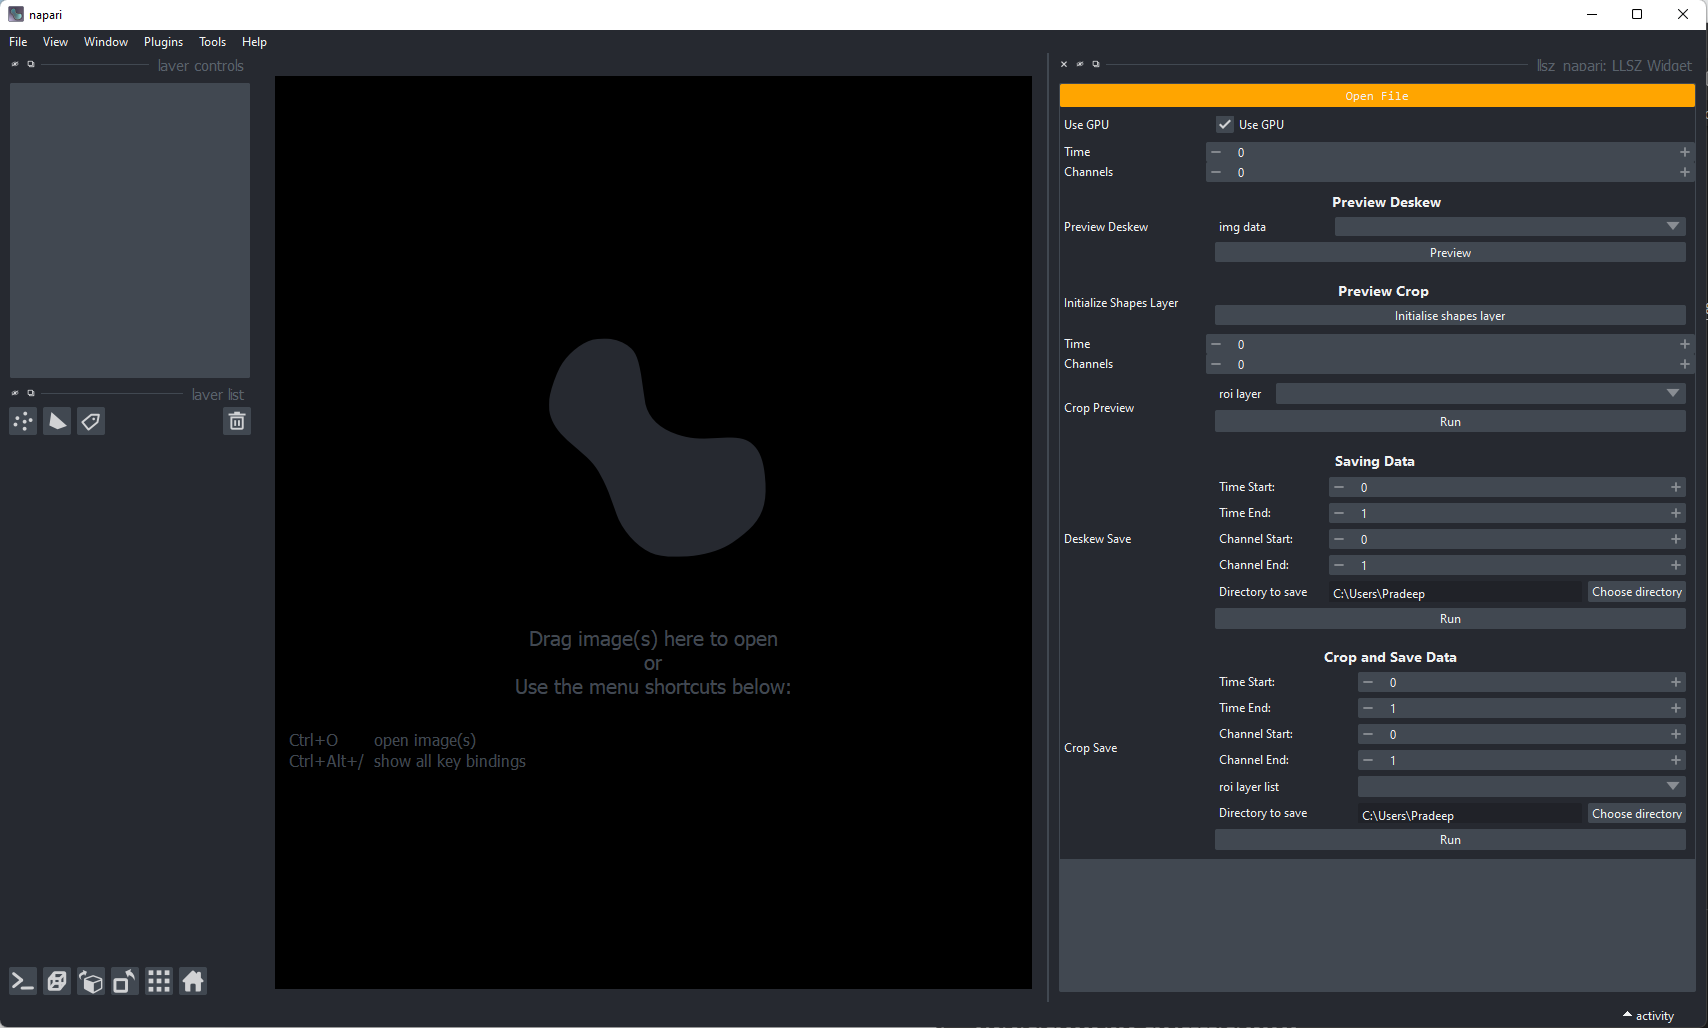
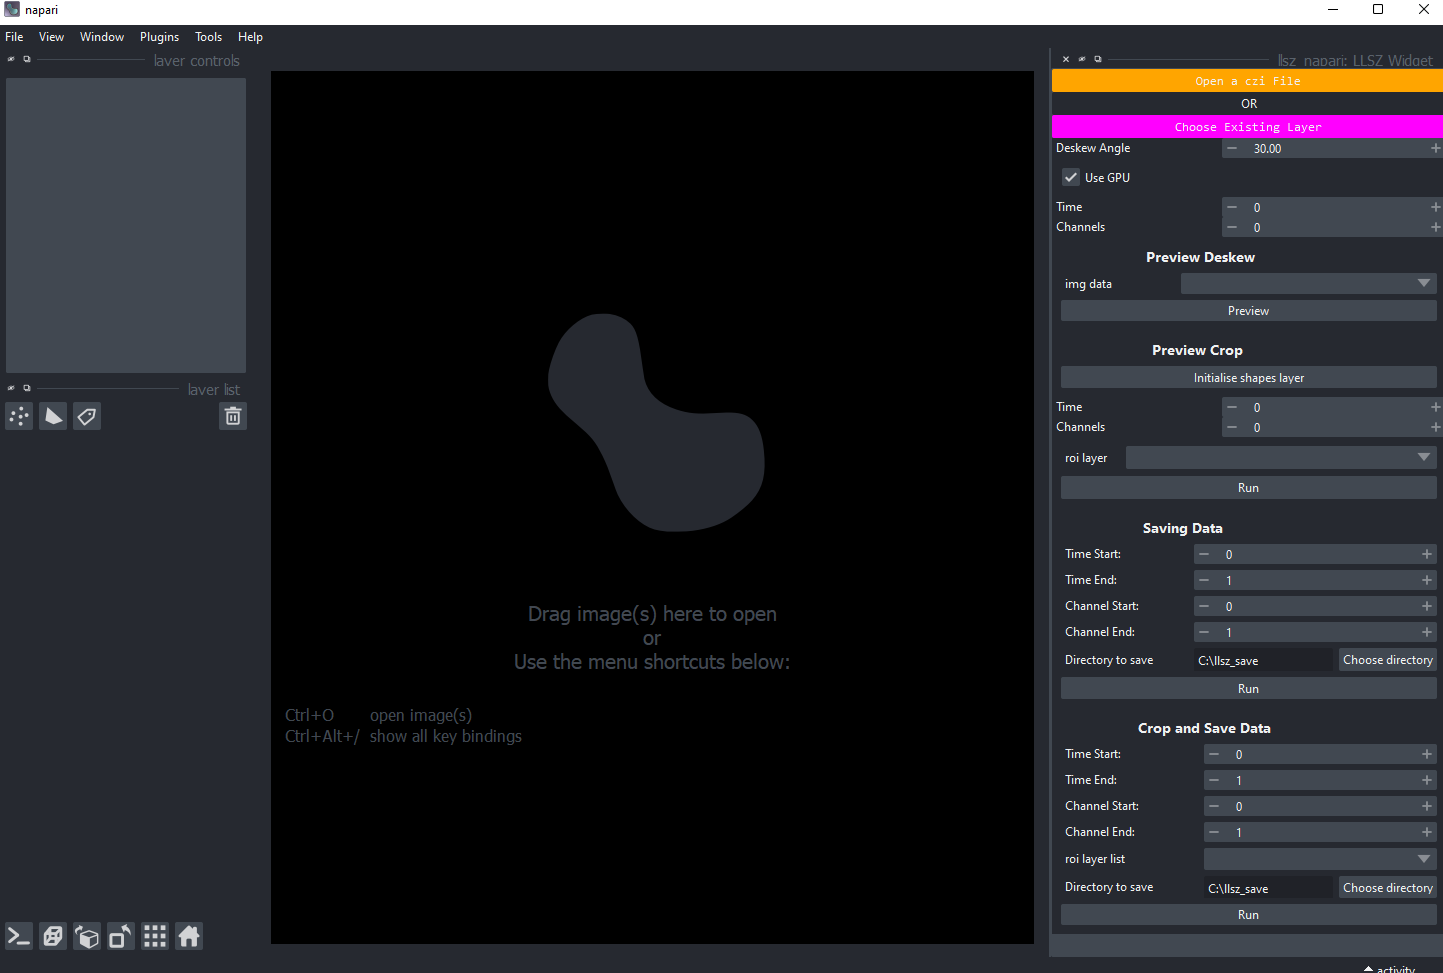
updated docs

diff --git a/README.md b/README.md
@@ -29,7 +29,7 @@ Use a conda environment. Start with installing [pyopencl](https://documen.tician
 
 To install latest development version :
 
-    pip install git+https://github.com/pr4deepr/llsz_napari.git@napari_plugin
+    pip install git+https://github.com/pr4deepr/llsz_napari.git
 
 
 #### [**Sample data for testing**](https://cloudstor.aarnet.edu.au/plus/s/700eD6EcgOODovI) 
@@ -38,7 +38,9 @@ To install latest development version :
 Once installed, just start napari as normal and the plugin should be under "Plugins" tab
 
 Functions:
-* Open a czi lattice file
+* Opening files (2 options)
+  * Open a czi lattice file OR 
+  * Select an existing image layer in napari. This means you will have to enter voxel sizes and deskewing angle manually
 * Preview deskewing on any time or channel
 * Preview cropping on any time or channel
 * Save deskewed stack for time and channel range of interest
